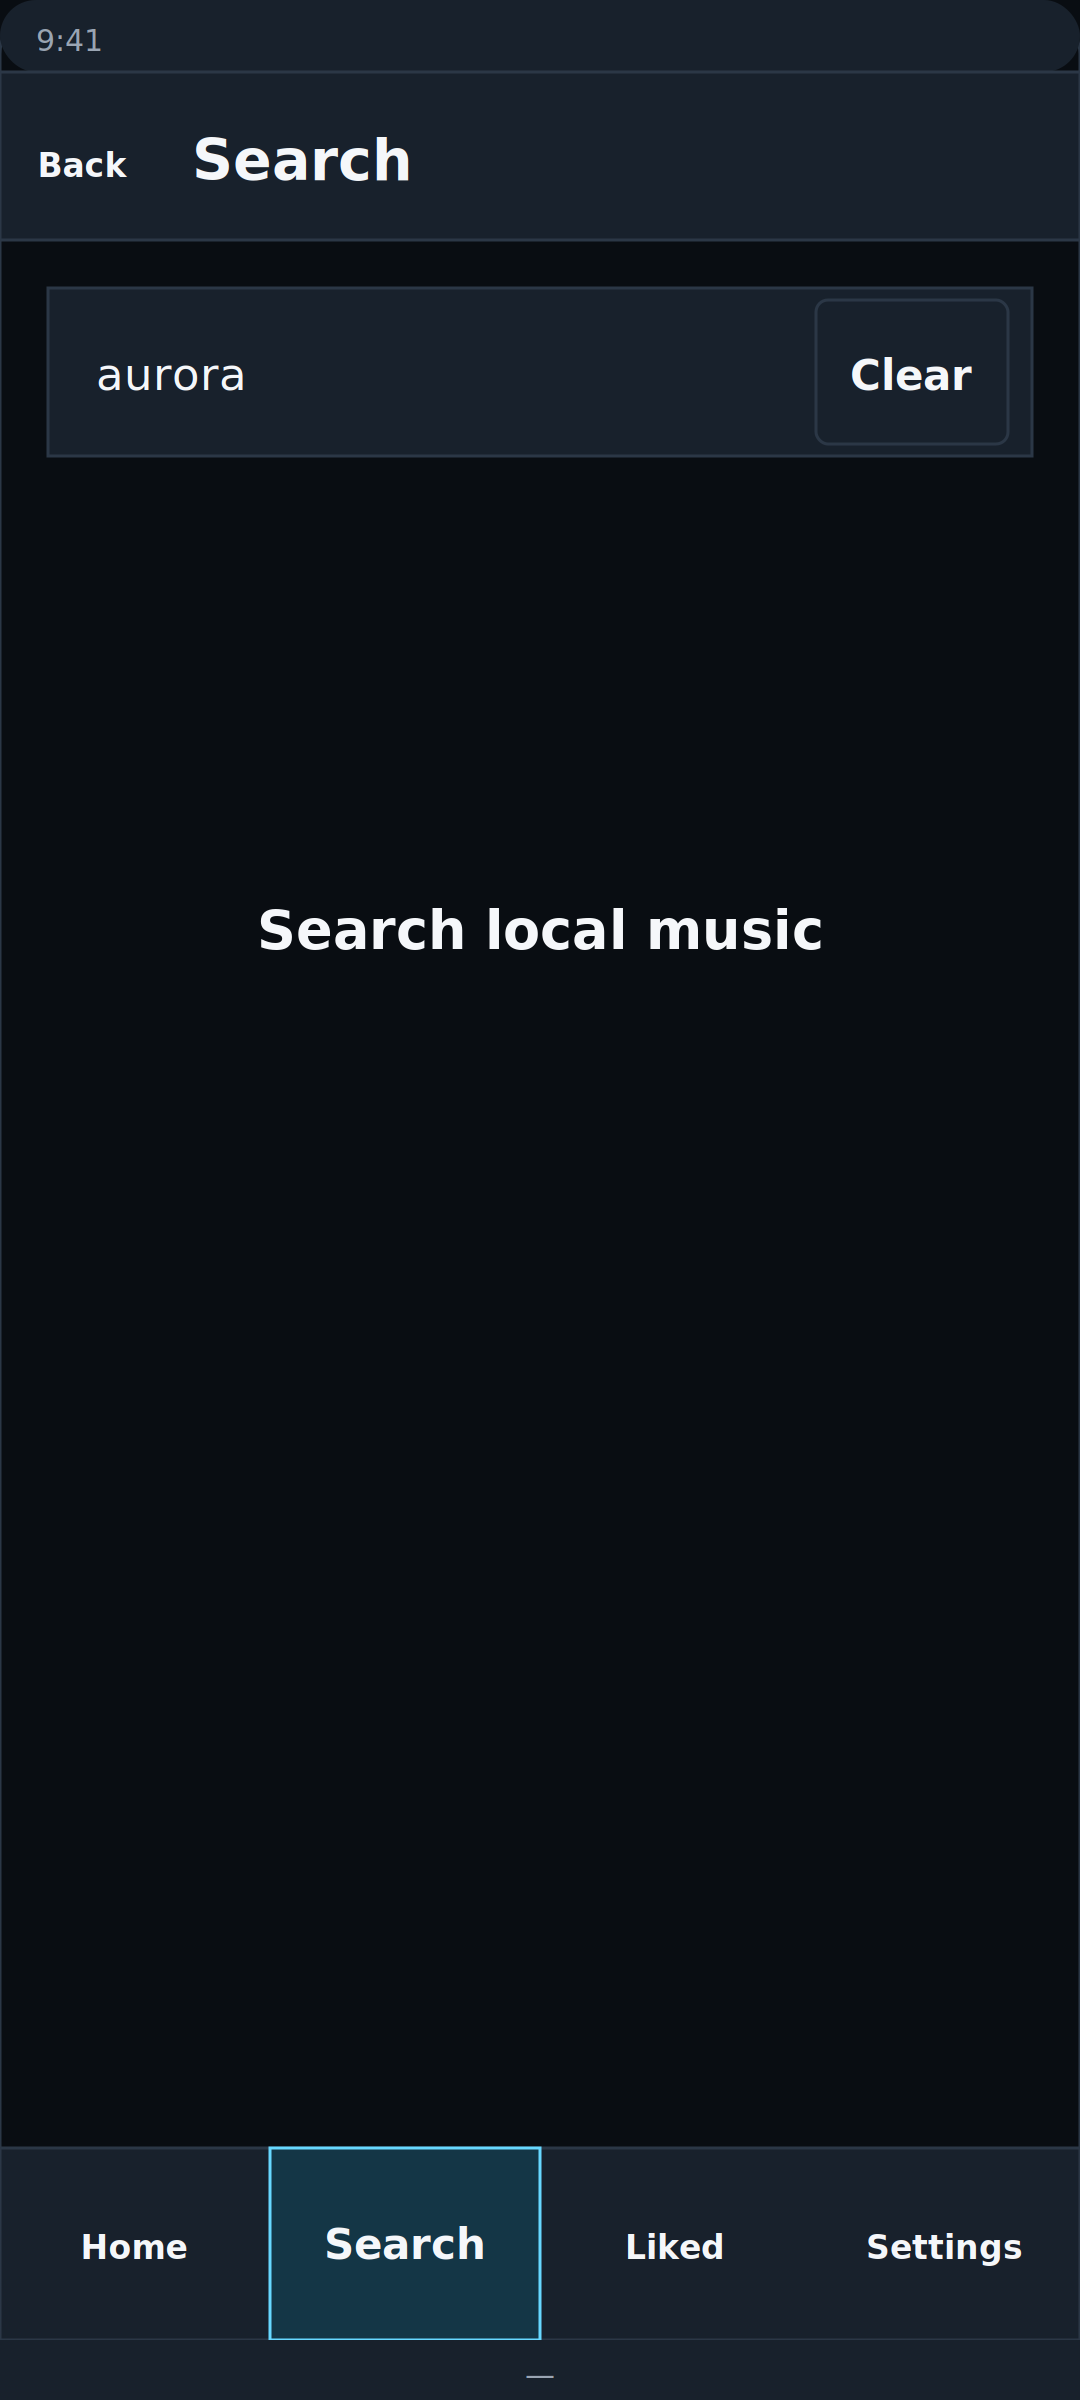
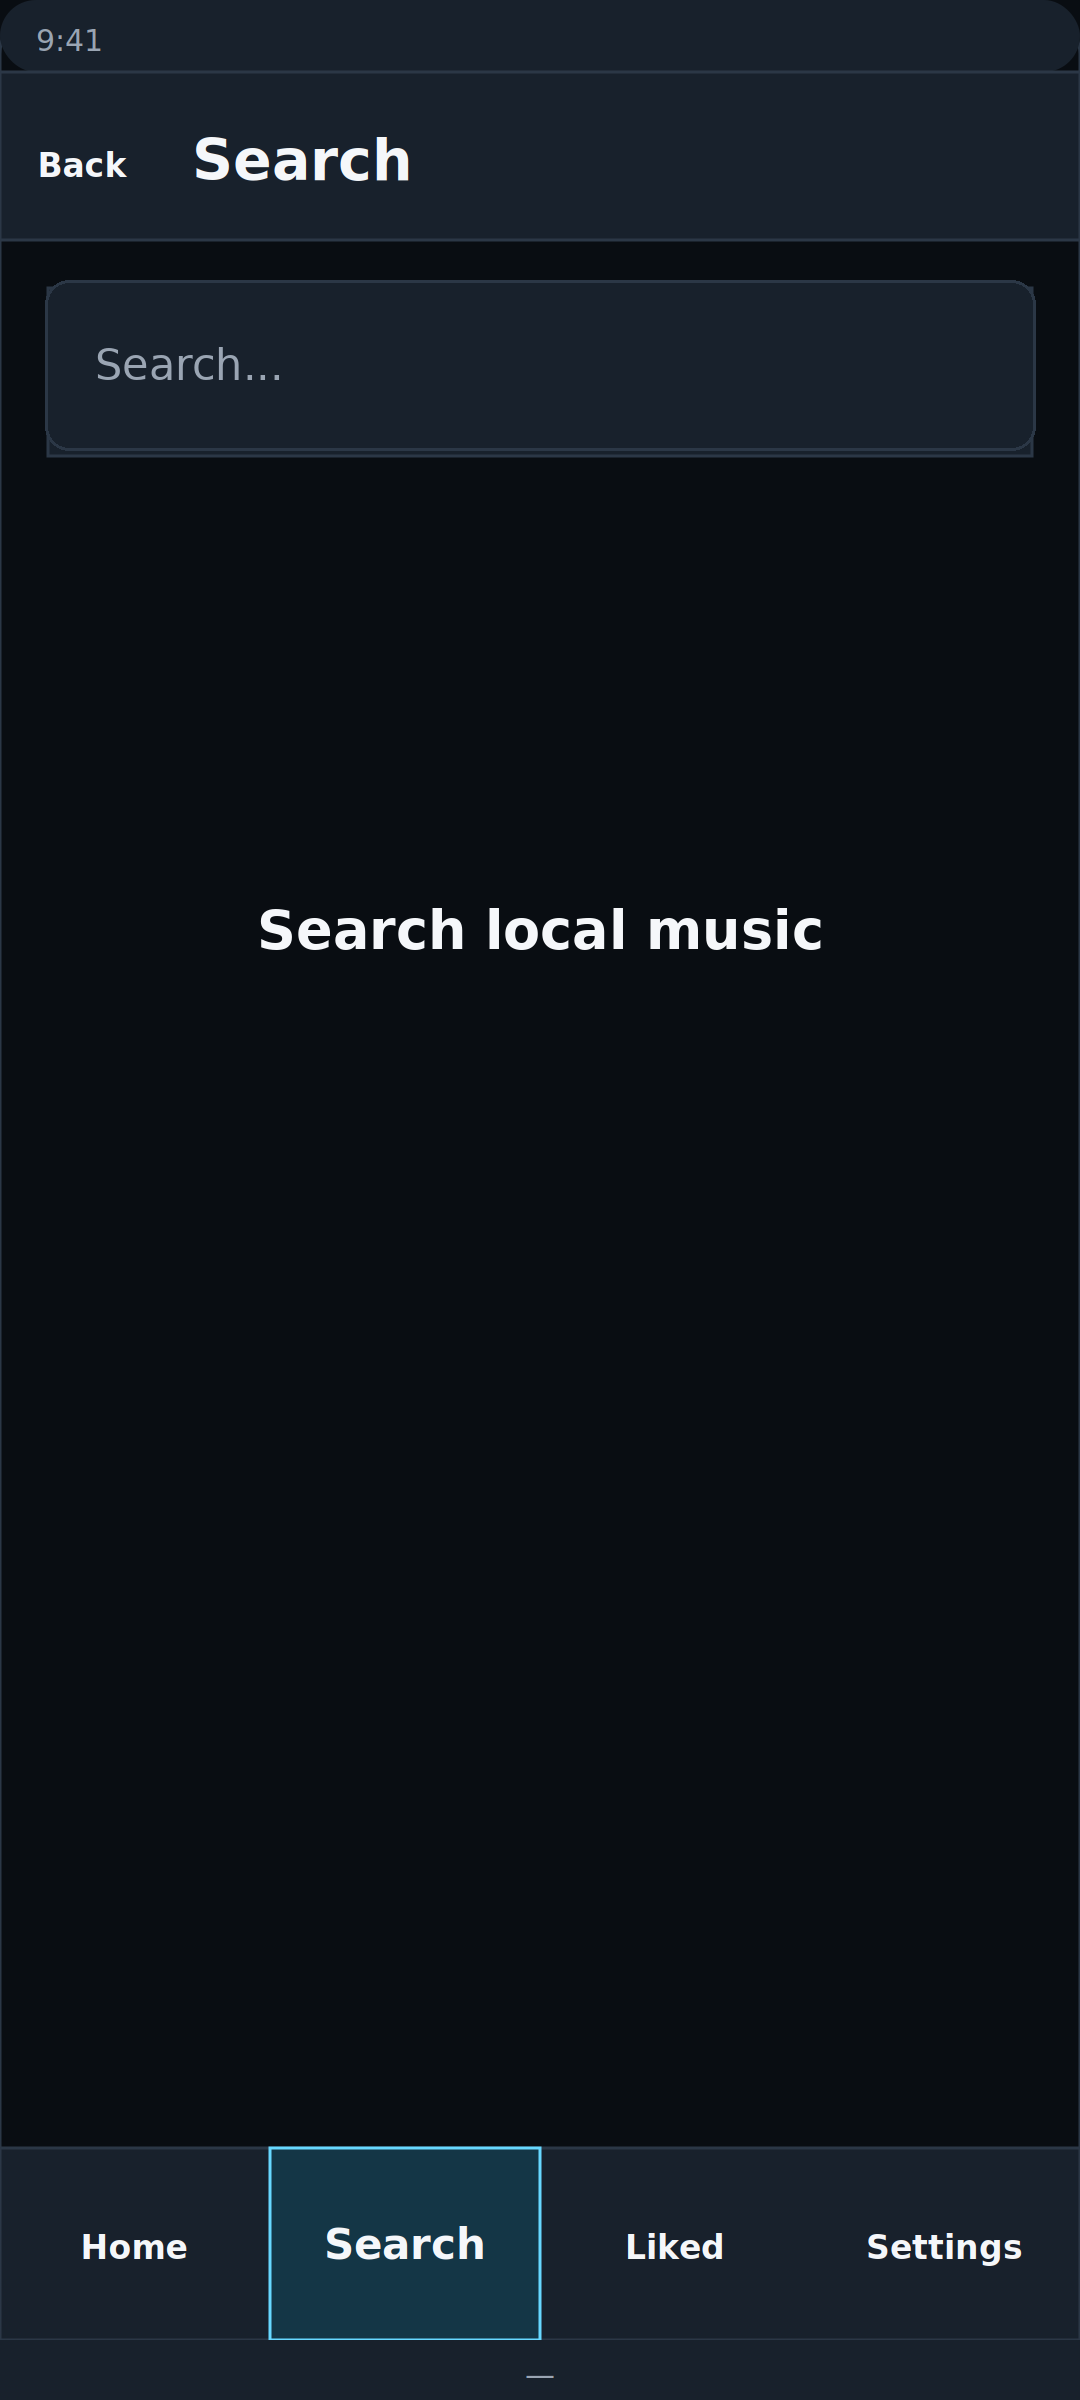
feat(issue-17): produce 45 app Hi-Fi states, 61 variants and 20 system handoffs

Changed region(s): [[0.0611, 0.0938, 0.9472, 0.1875], [0.9472, 0.125, 0.9778, 0.1875]]

diff --git a/docs/high-fidelity/README.md b/docs/high-fidelity/README.md
@@ -67,3 +67,7 @@ Phase 4 primary images remain unchanged. Phase 5 adds **45** State-ID reviewable
 ## Phase 5 — 126-state completion (11 October 2026)
 
 Phase 4 primary images remain unchanged. Phase 5 adds **45** State-ID reviewable PNG/spec pairs inside each WF package under /states/, **32** approved source-frame Night Signal PNG/spec pairs under /frames/, **61** component variants under /state-variants/, and **20** platform-only handoffs under /system-handoffs/. The authoritative disposition is [HIFI_STATE_COVERAGE_MATRIX.md](HIFI_STATE_COVERAGE_MATRIX.md); machine validation is [PHASE_5_VALIDATION.json](PHASE_5_VALIDATION.json). Automated 126/126 coverage does not imply independent human sign-off, physical runtime accessibility acceptance, or Issue #17 final closure.
+
+## Phase 5 — 126-state completion (11 October 2026)
+
+Phase 4 primary images remain unchanged. Phase 5 adds **45** State-ID reviewable PNG/spec pairs inside each WF package under /states/, **32** approved source-frame Night Signal PNG/spec pairs under /frames/, **61** component variants under /state-variants/, and **20** platform-only handoffs under /system-handoffs/. The authoritative disposition is [HIFI_STATE_COVERAGE_MATRIX.md](HIFI_STATE_COVERAGE_MATRIX.md); machine validation is [PHASE_5_VALIDATION.json](PHASE_5_VALIDATION.json). Automated 126/126 coverage does not imply independent human sign-off, physical runtime accessibility acceptance, or Issue #17 final closure.

diff --git a/docs/high-fidelity/WF-05/states/HF_STATE_CB-09.md b/docs/high-fidelity/WF-05/states/HF_STATE_CB-09.md
@@ -1,7 +1,7 @@
 # High-Fidelity State — CB-09 · Search Idle / Query
 
 **Issue:** #17 · **Phase:** 5 · **Disposition:** DEDICATED_HIFI / REVIEWABLE
-**PNG:** HF_STATE_CB-09.png · **PNG SHA-256:** 9b890feb054e456abfb3a7ee102a2de7d4487ed67fc06383dd83f63d09d79133
+**PNG:** HF_STATE_CB-09.png · **PNG SHA-256:** b5bfce2e3c07a8f282690e31ac615907163d231ccf2f589ca9a4baa59a54145a
 **Priority:** P0 · **WF:** WF-05
 **UF:** UF-04 · **GS:** — (not on GS-01..05 path)
 **State:** CB-09 · **Owner:** App
@@ -13,6 +13,7 @@
 
 - "Back"
 - "Search"
+- "Search..."
 - "Search local music"
 - "Home"
 - "Search"
